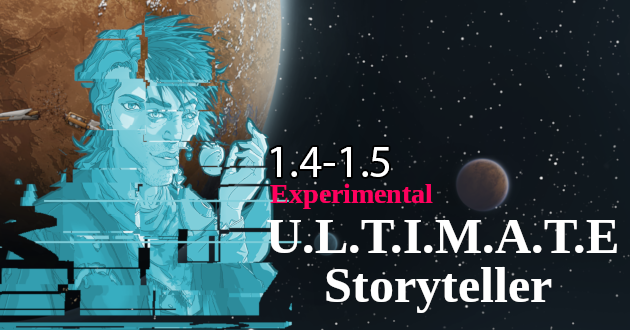
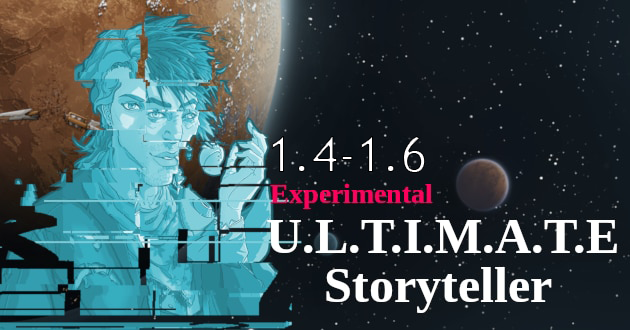
1.6 update

diff --git a/README.md b/README.md
@@ -1,7 +1,5 @@
 # UltimateStoryteller
-This is a quick update of the https://steamcommunity.com/sharedfiles/filedetails/?id=2557208773 mod for 1.4-1.5. 
-
-The directory structure for the storyteller texture is slightly different and I set it to appear slightly lower compared to my other modded storytellers.
+This is a quick update of the https://steamcommunity.com/sharedfiles/filedetails/?id=2557208773 mod for 1.4-1.6.
 
 Want to make this harder by adding RNG psycasters (from Vanilla Psycasts Expanded) for your pawns and raids? Check out the Basilicus Patch!: https://steamcommunity.com/sharedfiles/filedetails/?id=2928443788
 
